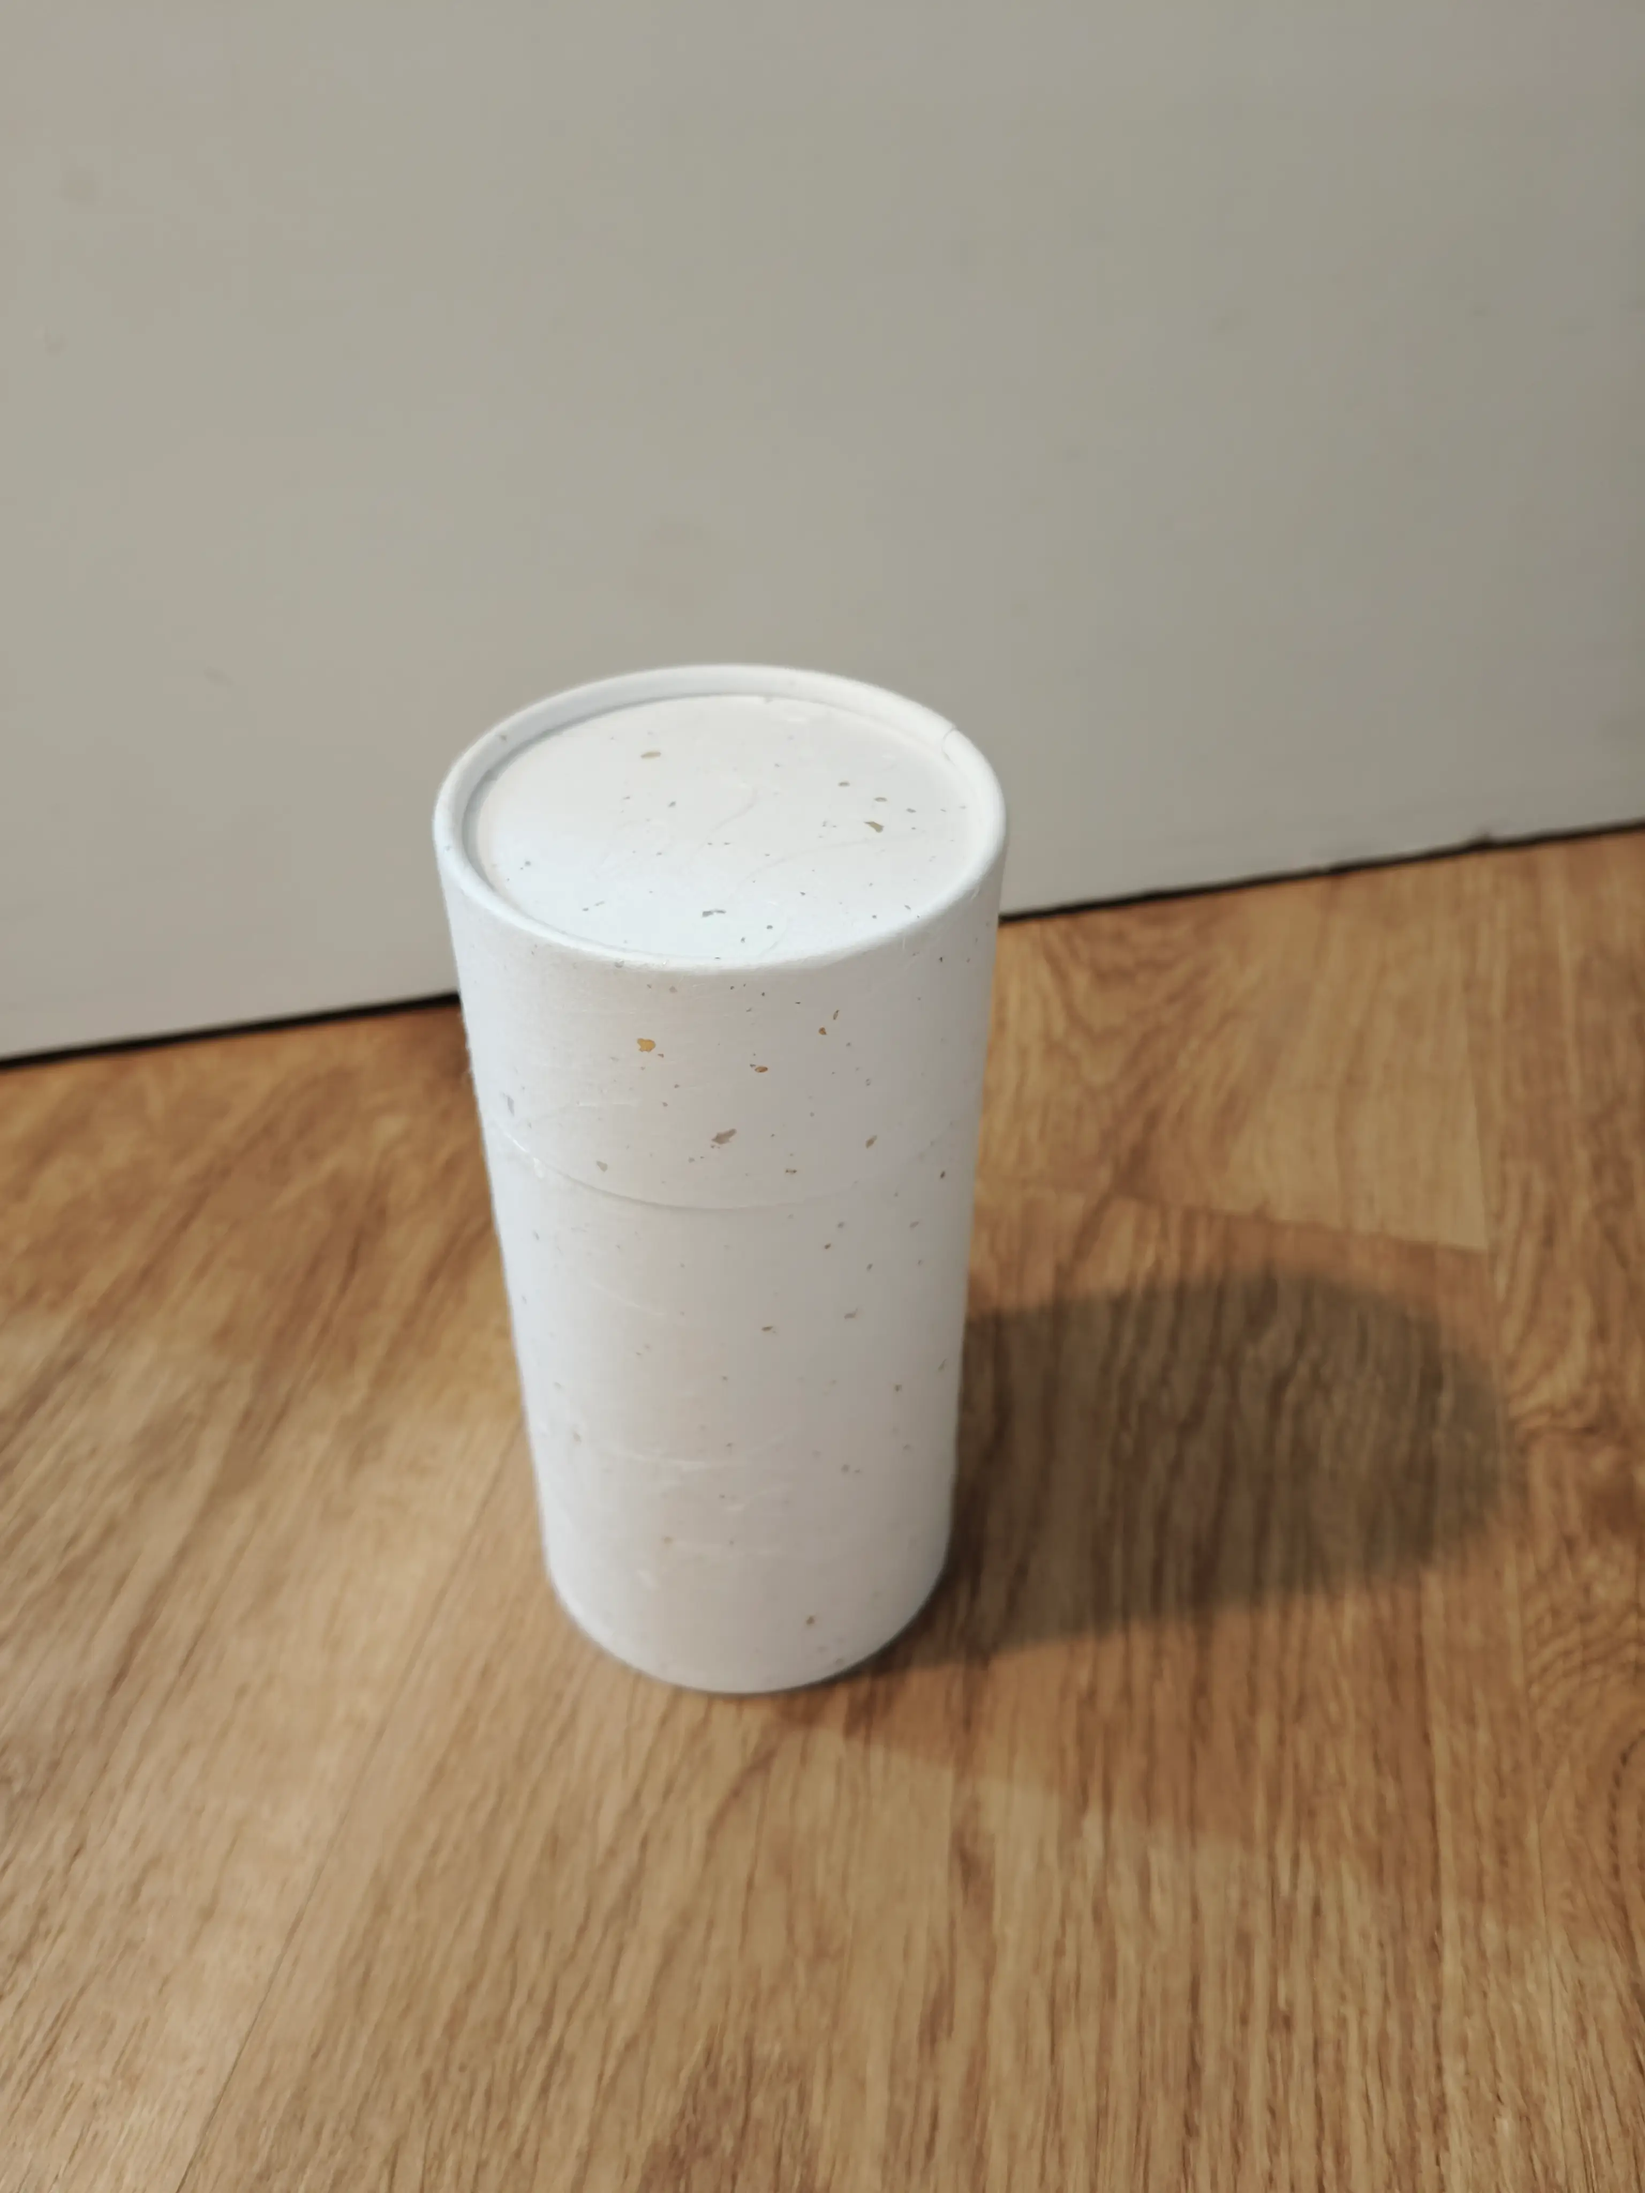
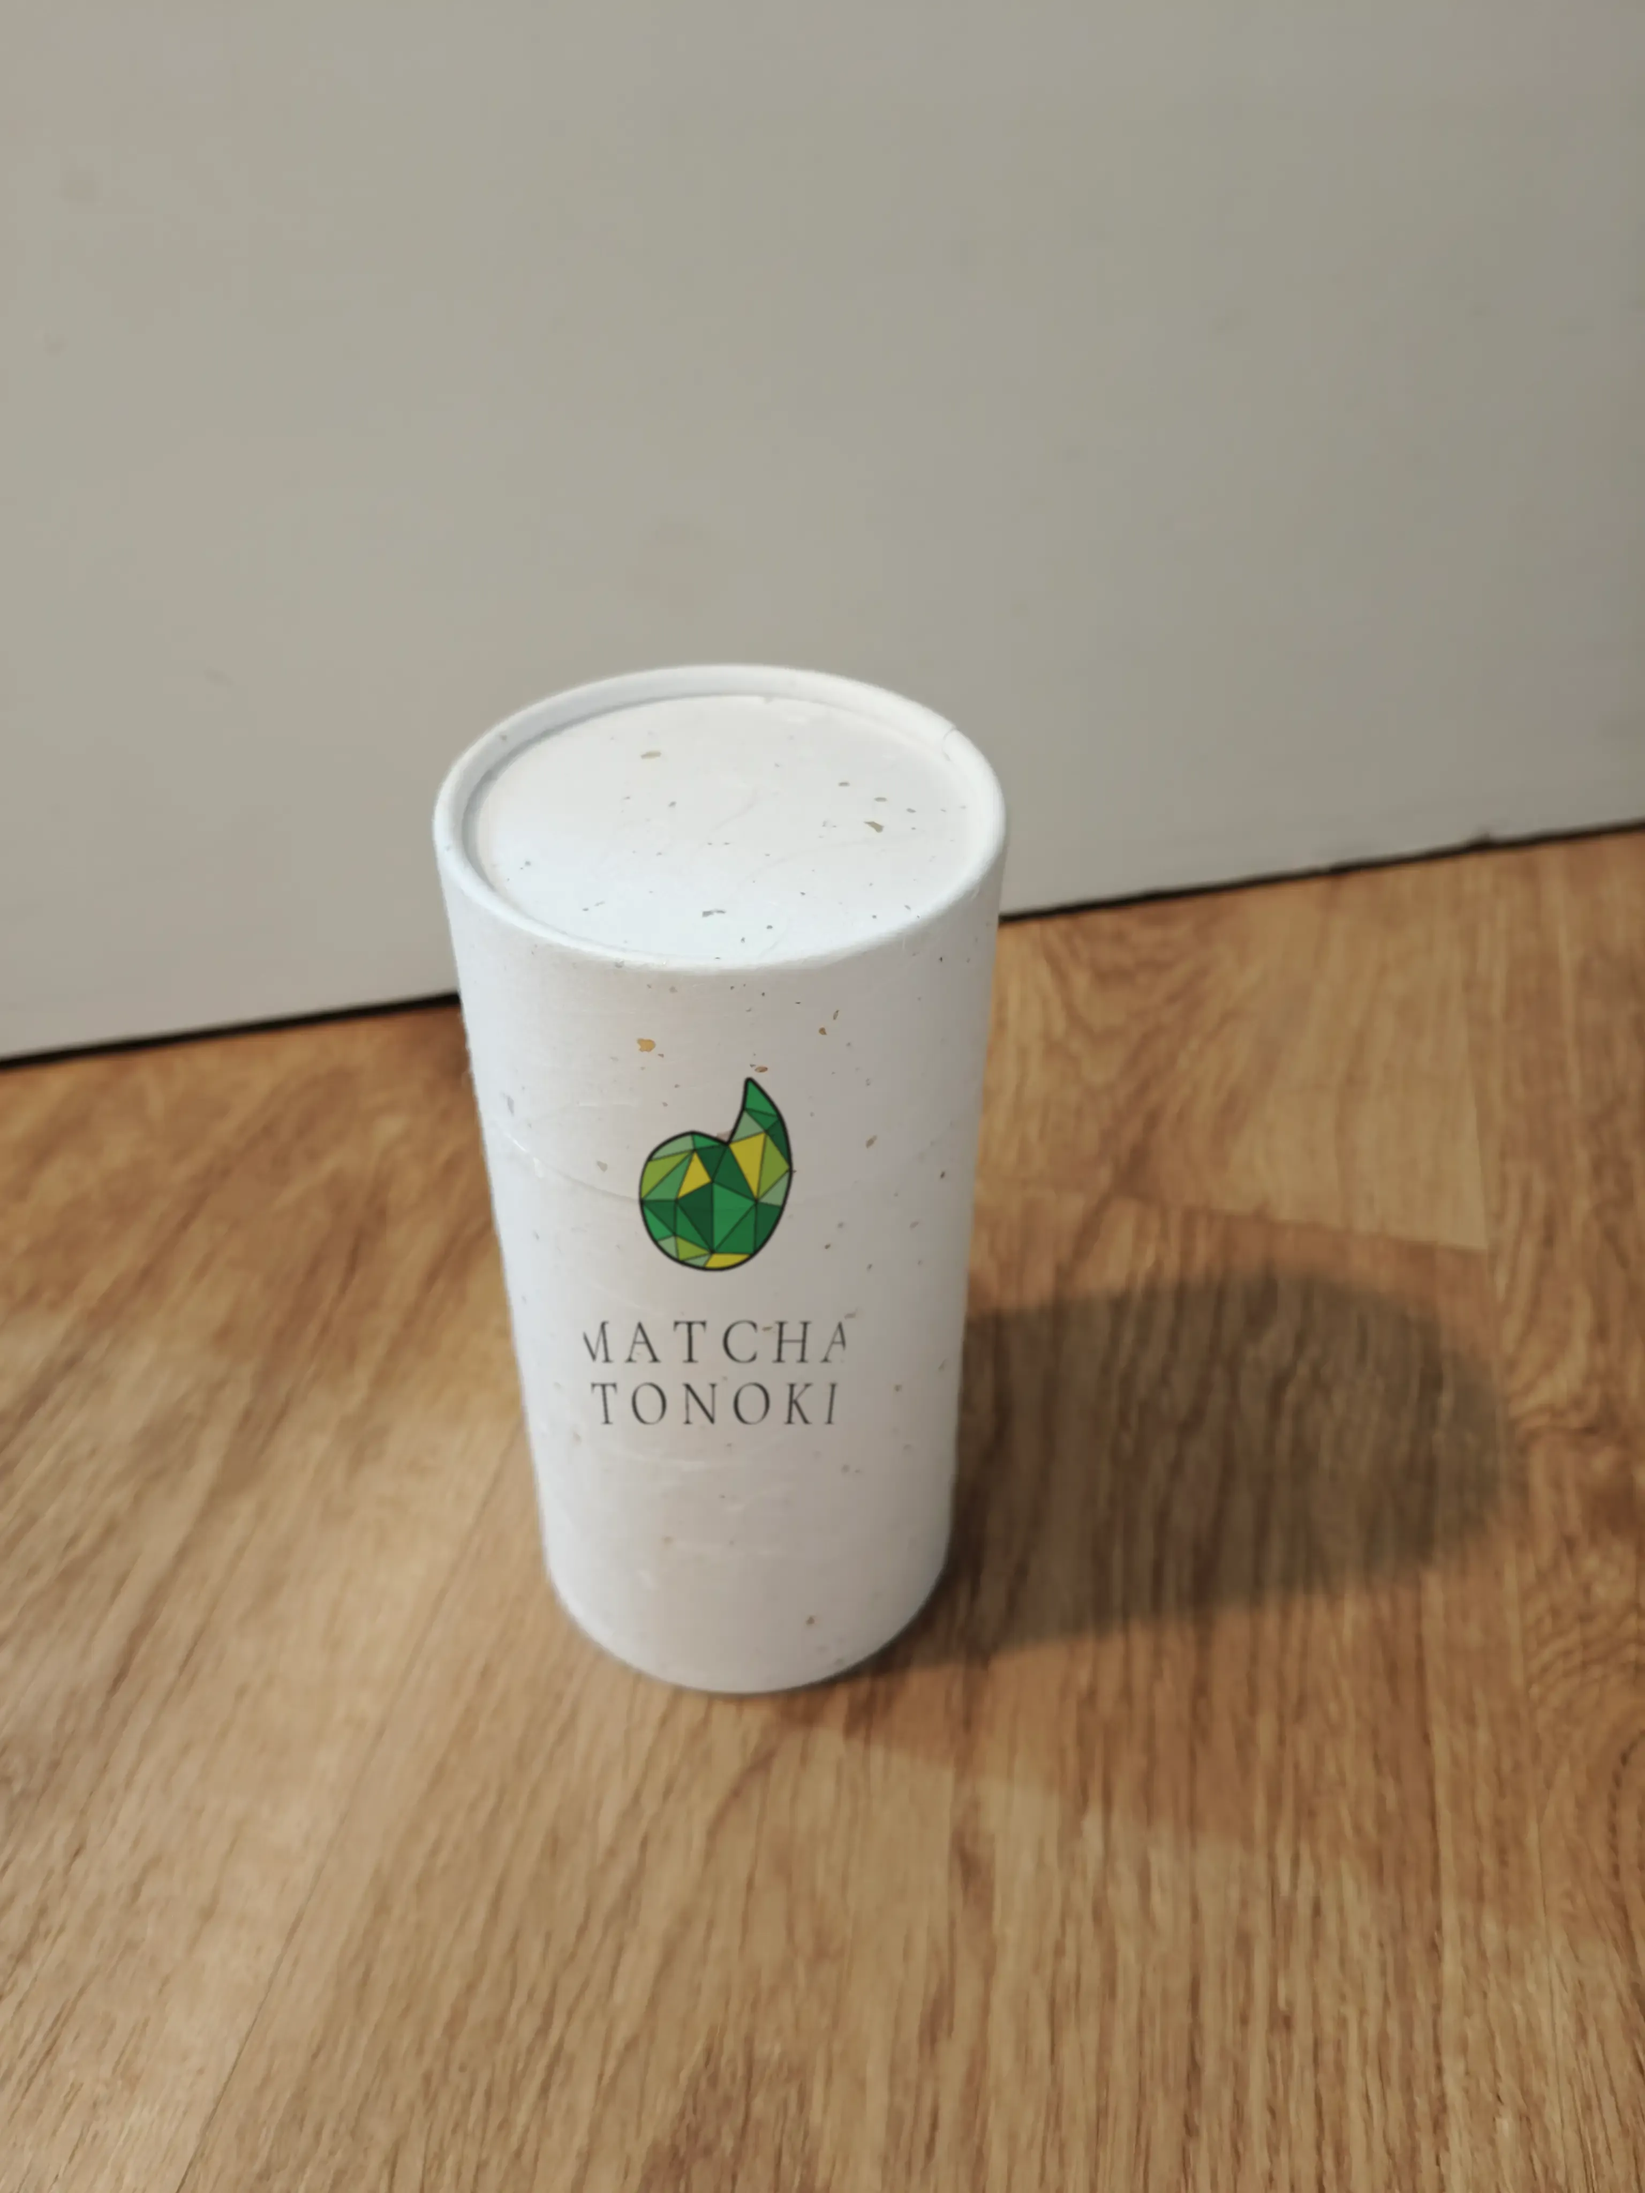
Press the mark into the paper
Composite the low-poly magatama and the Matcha Tonoki wordmark onto the
tube and both pouch photographs. The mark is warped to the surface --
cylindrical on the tube, a perspective quad on the pouches -- and blended
in multiply, so the speckles of the board and the light falling across
the bag pass through the ink instead of sitting under a sticker.

The sachet is left bare: three glossy sticks at three angles betray the
montage, and that one wants real photography.

Placements kept in .agents/docs/packaging-branding-2026-08-24.py.
Raw supplier samples remain in history at 0fe68f1.

Claude-Session: https://claude.ai/code/session_01NHBTHY8Yk3a93RFFyWTMxL

Changed region(s): [[0.3438, 0.4688, 0.5, 0.6562]]

diff --git a/.agents/docs/packaging-branding-2026-08-24.py b/.agents/docs/packaging-branding-2026-08-24.py
@@ -1,0 +1,185 @@
+import numpy as np, io, math
+from PIL import Image, ImageDraw, ImageFont, ImageFilter
+import cairosvg
+
+MARK = 'magatama-mark.svg'
+F300 = 'cormorant-300.ttf'
+F400 = 'cormorant-400.ttf'
+
+
+def render_mark(h, mono=None):
+    png = cairosvg.svg2png(url=MARK, output_height=h)
+    im = Image.open(io.BytesIO(png)).convert('RGBA')
+    if mono:
+        a = np.array(im)
+        alpha = a[..., 3]
+        out = np.zeros_like(a)
+        out[..., 0], out[..., 1], out[..., 2] = mono
+        out[..., 3] = alpha
+        im = Image.fromarray(out)
+    return im
+
+
+def text_img(txt, font, tracking, fill):
+    f = ImageFont.truetype(font[0], font[1])
+    widths = [f.getlength(c) for c in txt]
+    W = int(sum(widths) + tracking * (len(txt) - 1)) + 20
+    asc, desc = f.getmetrics()
+    H = asc + desc + 20
+    im = Image.new('RGBA', (W, H), (0, 0, 0, 0))
+    d = ImageDraw.Draw(im)
+    x = 10
+    for c, w in zip(txt, widths):
+        d.text((x, 10), c, font=f, fill=fill)
+        x += w + tracking
+    return im.crop(im.getbbox())
+
+
+def label_stacked(width, ink=(26, 26, 22)):
+    """Mark above, MATCHA / TONOKI below. Returns RGBA."""
+    mark = render_mark(int(width * 0.62))
+    t1 = text_img('MATCHA', (F300, int(width * 0.20)), width * 0.045, ink + (255,))
+    t2 = text_img('TONOKI', (F300, int(width * 0.20)), width * 0.045, ink + (255,))
+    gap = int(width * 0.14)
+    H = mark.height + gap + t1.height + int(width * 0.06) + t2.height
+    im = Image.new('RGBA', (width, H), (0, 0, 0, 0))
+    im.paste(mark, ((width - mark.width) // 2, 0), mark)
+    y = mark.height + gap
+    im.paste(t1, ((width - t1.width) // 2, y), t1)
+    y += t1.height + int(width * 0.06)
+    im.paste(t2, ((width - t2.width) // 2, y), t2)
+    return im
+
+
+def cylinder_apply(photo, label, y0, y1, edges, arc=0.44, opacity=1.0, blur=2.2):
+    """edges: fn(y)->(xl,xr). arc: fraction of the visible half-circumference the label covers."""
+    ph = np.array(photo.convert('RGB')).astype(np.float32)
+    H, W, _ = ph.shape
+    lab = np.array(label).astype(np.float32)
+    lh, lw, _ = lab.shape
+
+    ink = np.zeros((H, W, 3), np.float32) + 255.0
+    alpha = np.zeros((H, W), np.float32)
+
+    for y in range(y0, y1):
+        xl, xr = edges(y)
+        v = (y - y0) / (y1 - y0)
+        sy = min(lh - 1, max(0, int(v * lh)))
+        xs = np.arange(int(xl), int(xr) + 1)
+        p = (xs - xl) / (xr - xl)
+        pc = np.clip(2 * p - 1, -1, 1)
+        s = 0.5 + np.arcsin(pc) / math.pi          # arc coordinate 0..1
+        u = (s - (0.5 - arc / 2)) / arc            # label coordinate
+        ok = (u >= 0) & (u < 1)
+        sx = (u * lw).astype(int)
+        sx = np.clip(sx, 0, lw - 1)
+        px = lab[sy, sx]
+        a = px[:, 3] / 255.0 * ok
+        # fade toward the silhouette (grazing angle)
+        a *= np.clip(1 - pc ** 2, 0, 1) ** 0.30
+        ink[y, xs] = px[:, :3]
+        alpha[y, xs] = a
+
+    alpha = np.array(Image.fromarray((alpha * 255).astype(np.uint8)).filter(
+        ImageFilter.GaussianBlur(blur))).astype(np.float32) / 255.0 * opacity
+    ink = np.array(Image.fromarray(ink.astype(np.uint8)).filter(
+        ImageFilter.GaussianBlur(blur))).astype(np.float32)
+
+    # multiply blend: ink darkens the paper, paper texture/shading shows through
+    mult = ph * (ink / 255.0)
+    out = ph * (1 - alpha[..., None]) + mult * alpha[..., None]
+    return Image.fromarray(np.clip(out, 0, 255).astype(np.uint8))
+
+
+def find_coeffs(pa, pb):
+    """pa: dest quad (in output), pb: source quad (in input). For Image.transform PERSPECTIVE."""
+    matrix = []
+    for p1, p2 in zip(pa, pb):
+        matrix.append([p1[0], p1[1], 1, 0, 0, 0, -p2[0]*p1[0], -p2[0]*p1[1]])
+        matrix.append([0, 0, 0, p1[0], p1[1], 1, -p2[1]*p1[0], -p2[1]*p1[1]])
+    A = np.matrix(matrix, dtype=float)
+    B = np.array(pb).reshape(8)
+    res = np.dot(np.linalg.inv(A.T * A) * A.T, B)
+    return np.array(res).reshape(8)
+
+
+def quad_apply(photo, label, quad, opacity=1.0, blur=2.0, shade=None):
+    """quad: [(tl),(tr),(br),(bl)] in photo coords where the label should land."""
+    W, H = photo.size
+    lw, lh = label.size
+    src = [(0, 0), (lw, 0), (lw, lh), (0, lh)]
+    coeffs = find_coeffs(quad, src)
+    warped = label.transform((W, H), Image.PERSPECTIVE, coeffs, Image.BICUBIC)
+    warped = warped.filter(ImageFilter.GaussianBlur(blur))
+    wa = np.array(warped).astype(np.float32)
+    ph = np.array(photo.convert('RGB')).astype(np.float32)
+    ink = wa[..., :3]
+    ink[wa[..., 3] < 1] = 255
+    alpha = wa[..., 3] / 255.0 * opacity
+    if shade is not None:
+        alpha *= shade
+    mult = ph * (ink / 255.0)
+    out = ph * (1 - alpha[..., None]) + mult * alpha[..., None]
+    return Image.fromarray(np.clip(out, 0, 255).astype(np.uint8))
+
+
+# ---------------------------------------------------------------------------
+# Placements used for the 2026-08-24 pass. Run from a folder holding the three
+# source photos as PNG (decoded from static/images/packaging/*.webp) plus
+# magatama-mark.svg and cormorant-300.ttf. Writes out/*.webp at q=80.
+#
+#   fonts:  npm pack @fontsource/cormorant-garamond  ->  woff2 -> ttf (fontTools)
+#   deps :  pillow numpy cairosvg fonttools brotli
+# ---------------------------------------------------------------------------
+
+def run():
+    import os, math
+    os.makedirs('out', exist_ok=True)
+
+    # --- tube-25: paper cylinder, label follows the curvature -----------------
+    ph = Image.open('tube-25.png')
+    lab = label_stacked(900)
+    def tube_edges(y):
+        t = (y - 2100) / 900.0
+        return (898 + 153 * t, 1773 - 156 * t)
+    arc, y0 = 0.46, 2010
+    xl, xr = tube_edges(y0)
+    screen_w = math.sin(math.pi * arc / 2) * (xr - xl)
+    h = int(screen_w * lab.height / lab.width)
+    cylinder_apply(ph, lab, y0, y0 + h, tube_edges, arc=arc, opacity=0.92,
+                   blur=2.2).save('out/tube-25.webp', 'WEBP', quality=80, method=6)
+
+    # --- pouch-30g: standing pouch, near-flat panel with taper ---------------
+    ph = Image.open('pouch-30g.png')
+    lab = label_stacked(1000)
+    def pouch_edges(y):
+        t = (y - 1792) / 1024.0
+        return (855 + 145 * t, 2250 - 175 * t)
+    yt = 1980
+    xl, xr = pouch_edges(yt)
+    LW = 0.50 * (xr - xl)
+    ct = (xl + xr) / 2
+    yb = yt + LW * lab.height / lab.width
+    xl2, xr2 = pouch_edges(yb)
+    LWb = LW * (xr2 - xl2) / (xr - xl)
+    cb = (xl2 + xr2) / 2
+    quad = [(ct - LW / 2, yt), (ct + LW / 2, yt), (cb + LWb / 2, yb), (cb - LWb / 2, yb)]
+    quad_apply(ph, lab, quad, opacity=0.90, blur=2.4).save(
+        'out/pouch-30g.webp', 'WEBP', quality=80, method=6)
+
+    # --- pouch-30g-flat: lying down, full perspective quad -------------------
+    ph = Image.open('pouch-30g-flat.png')
+    lab = label_stacked(1000)
+    TL = np.array([630, 1041.]); TR = np.array([1832, 853.])
+    BR = np.array([2793, 2472.]); BL = np.array([1378, 2965.])
+    def P(u, v):
+        top = TL + (TR - TL) * u
+        bot = BL + (BR - BL) * u
+        return tuple(top + (bot - top) * v)
+    quad = [P(0.26, 0.28), P(0.74, 0.28), P(0.74, 0.645), P(0.26, 0.645)]
+    quad_apply(ph, lab, quad, opacity=0.88, blur=2.6).save(
+        'out/pouch-30g-flat.webp', 'WEBP', quality=80, method=6)
+
+
+if __name__ == '__main__':
+    run()
